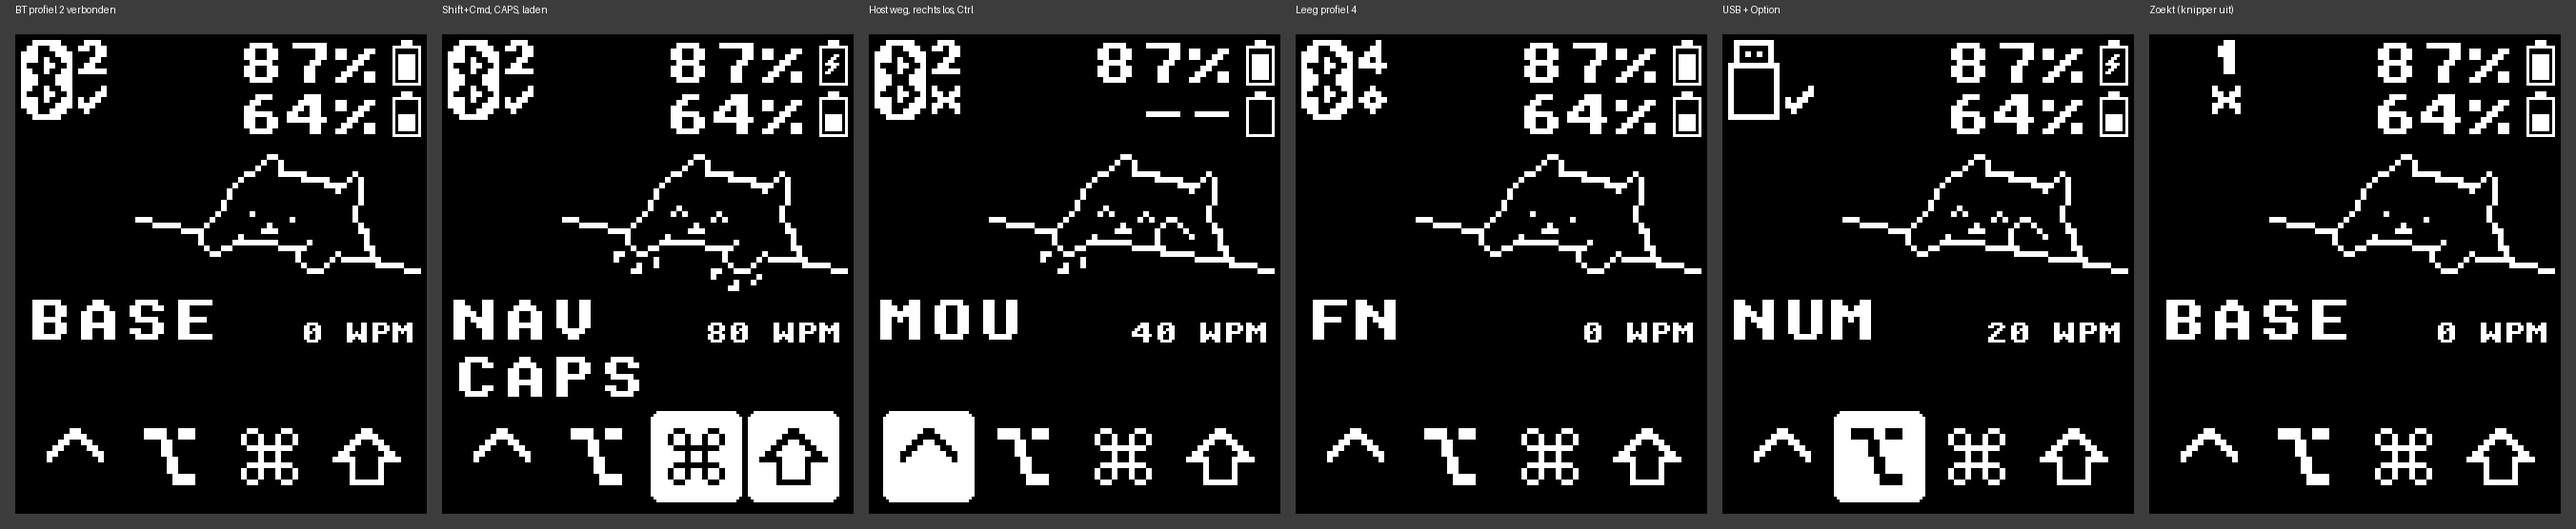
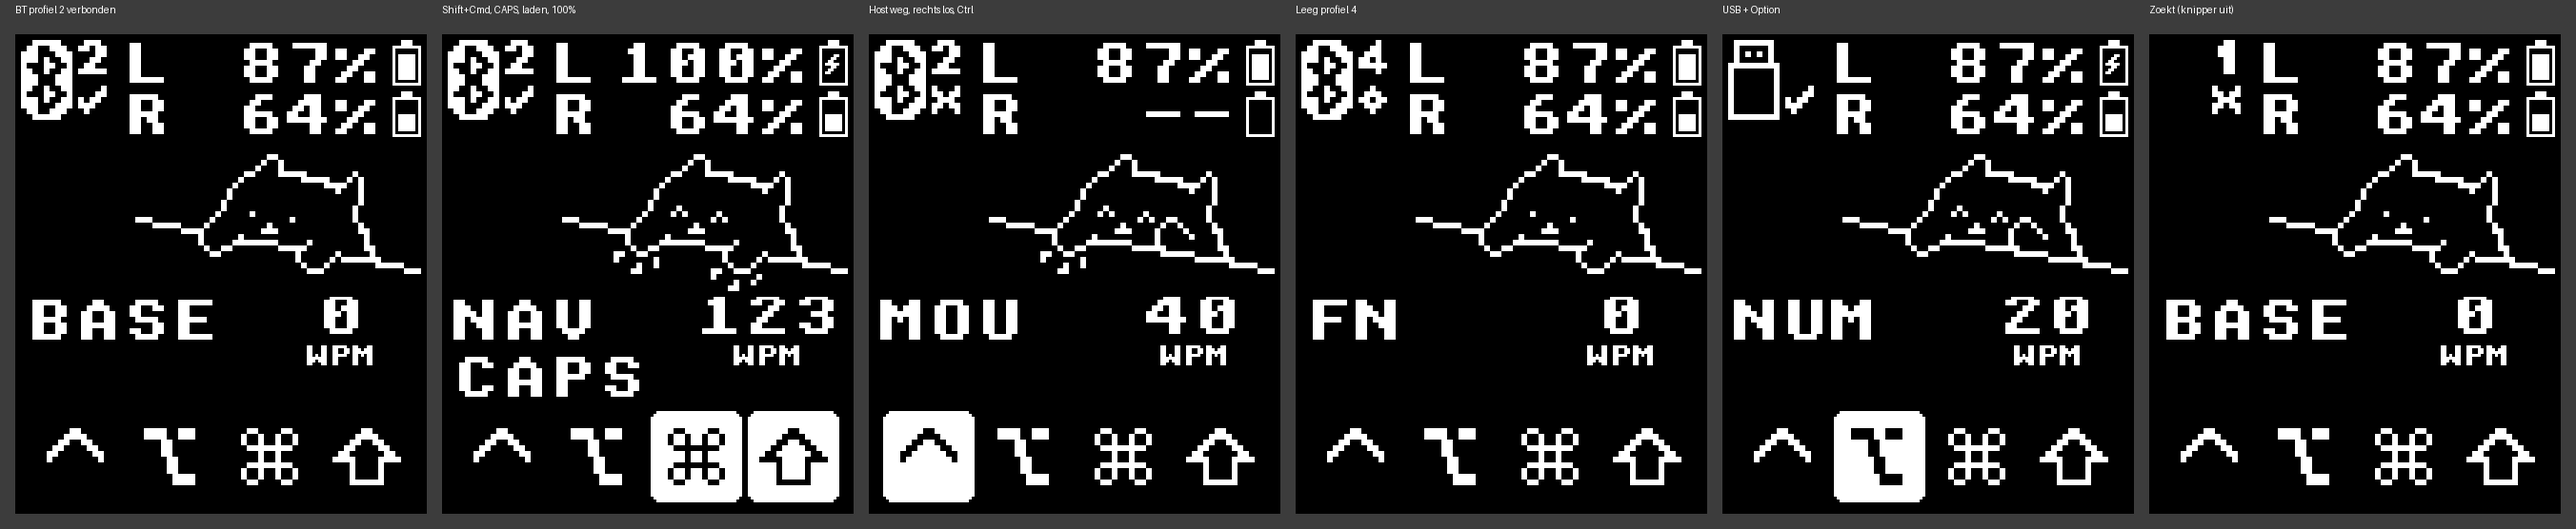
Display style 3: L/R battery labels, larger WPM number above a small WPM label
Claude-Session: https://claude.ai/code/session_019Kz1aDsXCQGBAv992FuoYC

diff --git a/boards/shields/nice_view_gem/widgets/screen_dongle.c b/boards/shields/nice_view_gem/widgets/screen_dongle.c
@@ -5,10 +5,11 @@
  * for a portrait screen:
  *
  *   +----------------------------+
- *   | [BT]2v            87% [##] |  output: USB or Bluetooth (+ profile) + status mark
- *   |                   64% [# ] |  batteries: left half, right half
+ *   | [BT]2v        L  87% [##] |  output: USB or Bluetooth (+ profile) + status mark
+ *   |               R  64% [# ] |  batteries: left half, right half
  *   |          Bongo Cat         |
- *   | BASE                42 WPM |  layer name, typing speed
+ *   | BASE                   42 |  layer name, typing speed
+ *   |                       WPM |
  *   | CAPS                       |  Caps Lock (only when on)
  *   |   ^    opt   cmd   shift   |  modifiers, inverted while held
  *   +----------------------------+
@@ -57,6 +58,7 @@ LOG_MODULE_DECLARE(zmk, CONFIG_ZMK_LOG_LEVEL);
 
 #define BAT_ICON_X      (SCREEN_WIDTH - 12)
 #define BAT_ROW_Y(i)    (OUT_Y + (i) * 18)
+#define BAT_SIDE_X      38      // "L" / "R" in front of the percentages
 
 #define CAT_X           42
 #define CAT_Y           40
@@ -64,6 +66,10 @@ LOG_MODULE_DECLARE(zmk, CONFIG_ZMK_LOG_LEVEL);
 #define LAYER_X         4
 #define LAYER_Y         92
 #define CAPS_Y          112
+
+#define WPM_W           56
+#define WPM_X           (SCREEN_WIDTH - 2 - WPM_W)
+#define WPM_Y           90
 
 #define MOD_ICON_W      28
 #define MOD_GAP         6
@@ -221,8 +227,8 @@ static void draw_battery_icon(lv_obj_t *canvas, int x, int y, uint8_t level, boo
     }
 }
 
-static void draw_battery_row(lv_obj_t *canvas, int row, uint8_t level, bool charging,
-                             bool connected) {
+static void draw_battery_row(lv_obj_t *canvas, int row, const char *side, uint8_t level,
+                             bool charging, bool connected) {
     char buf[8];
     if (connected) {
         snprintf(buf, sizeof(buf), "%u%%", level);
@@ -230,14 +236,15 @@ static void draw_battery_row(lv_obj_t *canvas, int row, uint8_t level, bool char
         snprintf(buf, sizeof(buf), "--");
     }
     int y = BAT_ROW_Y(row);
+    draw_label(canvas, BAT_SIDE_X, y, 16, LV_TEXT_ALIGN_LEFT, side);
     draw_label(canvas, 0, y, BAT_ICON_X - 4, LV_TEXT_ALIGN_RIGHT, buf);
     draw_battery_icon(canvas, BAT_ICON_X, y, connected ? level : 0, charging);
 }
 
 static void draw_batteries(lv_obj_t *canvas, const struct status_state *state) {
-    draw_battery_row(canvas, 0, state->battery, state->charging, true);
+    draw_battery_row(canvas, 0, "L", state->battery, state->charging, true);
     // ZMK reports 0 for the right half while it is disconnected
-    draw_battery_row(canvas, 1, state->battery_p, false, state->battery_p > 0);
+    draw_battery_row(canvas, 1, "R", state->battery_p, false, state->battery_p > 0);
 }
 
 /**
@@ -253,15 +260,17 @@ static void draw_layer(lv_obj_t *canvas, const struct status_state *state) {
     }
     draw_label(canvas, LAYER_X, LAYER_Y, SCREEN_WIDTH - LAYER_X, LV_TEXT_ALIGN_LEFT, name);
 
-    // Small WPM counter, right-aligned on the layer row (bottom-aligned with the layer name)
-    char wpm[12];
-    snprintf(wpm, sizeof(wpm), "%u WPM", state->wpm);
+    // WPM counter on the right: number (large) with a small "WPM" underneath
+    char wpm[8];
+    snprintf(wpm, sizeof(wpm), "%u", state->wpm);
+    draw_label(canvas, WPM_X, WPM_Y, WPM_W, LV_TEXT_ALIGN_CENTER, wpm);
+
     lv_draw_label_dsc_t dsc;
     lv_draw_label_dsc_init(&dsc);
     dsc.color = LVGL_FOREGROUND;
     dsc.font = &lv_font_unscii_8;
-    dsc.align = LV_TEXT_ALIGN_RIGHT;
-    lv_canvas_draw_text(canvas, 0, LAYER_Y + 8, SCREEN_WIDTH - 4, &dsc, wpm);
+    dsc.align = LV_TEXT_ALIGN_CENTER;
+    lv_canvas_draw_text(canvas, WPM_X, WPM_Y + 18, WPM_W, &dsc, "WPM");
 
     if (state->caps_lock) {
         draw_label(canvas, LAYER_X, CAPS_Y, SCREEN_WIDTH - LAYER_X, LV_TEXT_ALIGN_LEFT, "CAPS");
